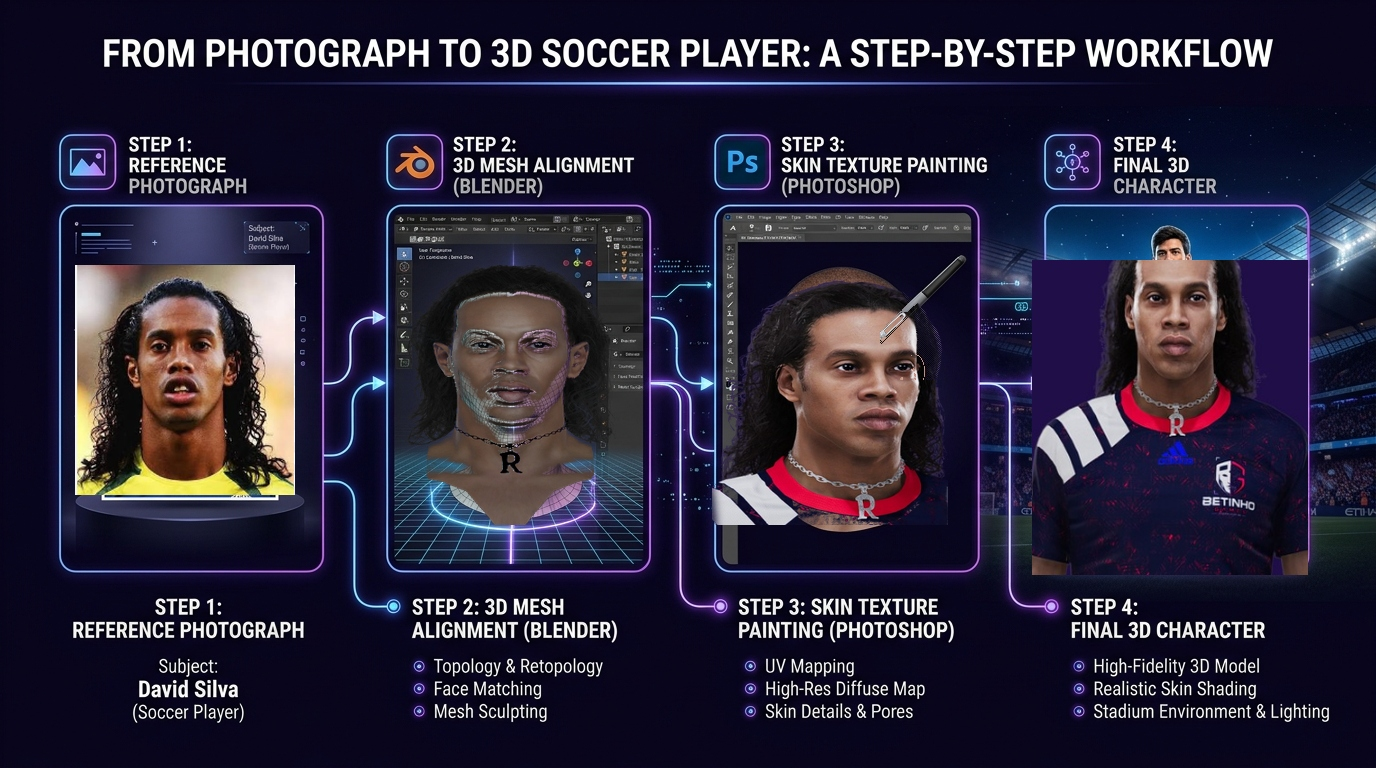
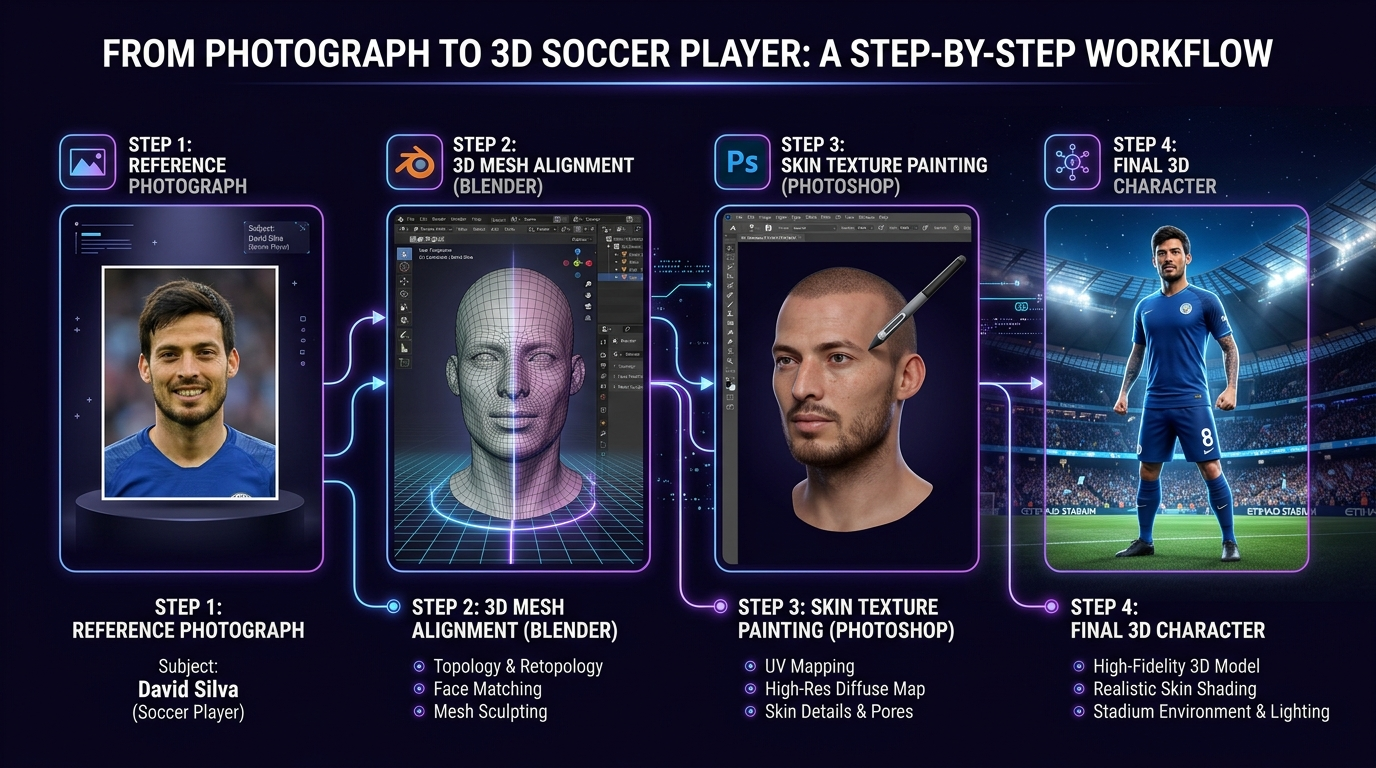
revert: restaura a imagem e configuracao original da secao de metodologia

diff --git a/src/components/sections/SolutionSection.tsx b/src/components/sections/SolutionSection.tsx
@@ -4,7 +4,7 @@ import SectionTitle from '@/components/ui/SectionTitle';
 import CTAButton from '@/components/ui/CTAButton';
 import { getAssetPath } from '@/lib/assets';
 
-export default function SolutionSection() {
+export default function SolutionSectionBackup() {
   const steps = [
     {
       number: '01',
